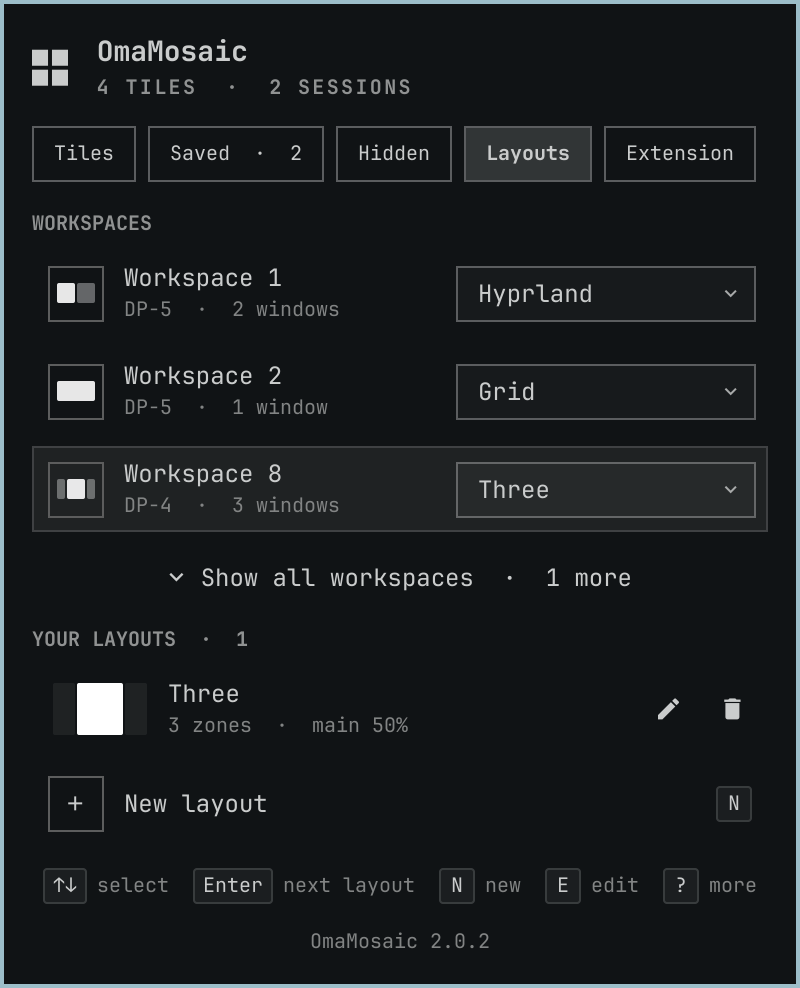
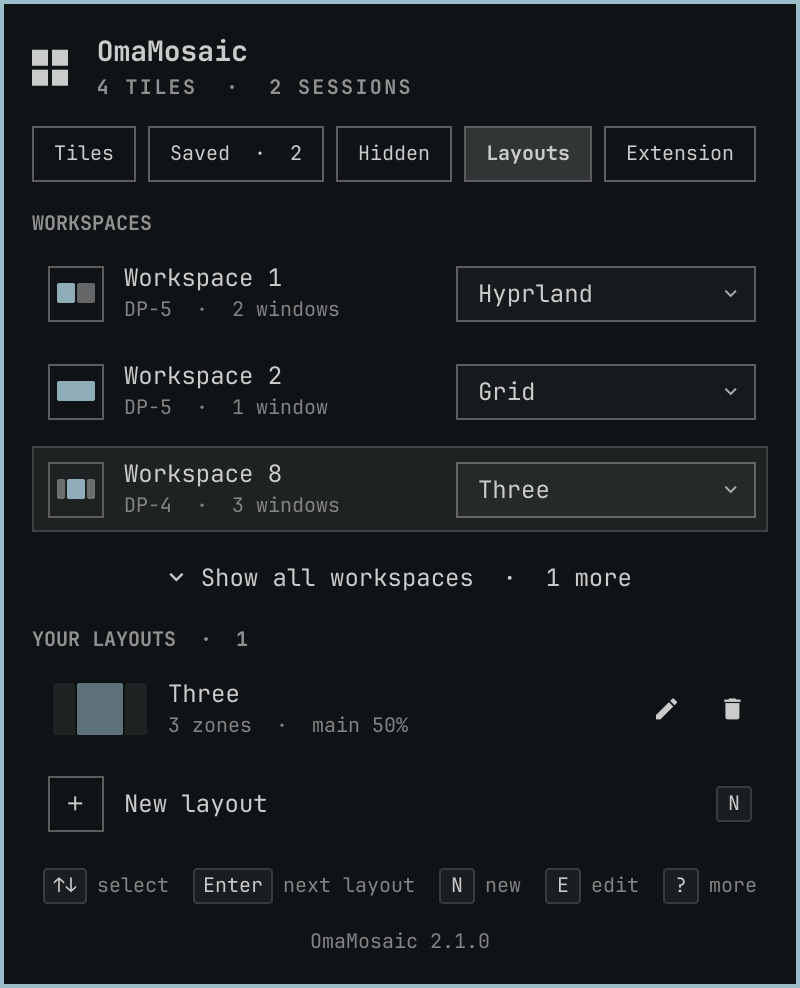
Release 2.1.0
Reloads tiles whose page crashed and recovers more kinds of stopped
streams, on a third default site too, with extension 0.7.0. Keeps tiles
paired with their own tabs, across shell restarts as well, and names
each tile after the site it is really on. The panel captures and the
hero are rendered again to show the new version.

diff --git a/CHANGELOG.md b/CHANGELOG.md
@@ -1,6 +1,6 @@
 # Changelog
 
-## Unreleased
+## 2.1.0 (2026-11-11)
 
 - **Fixed**: a tile paired with the wrong browser tab stays wrong no more.
   The pairing was kept forever once made, even across shell restarts, so
@@ -29,6 +29,9 @@
   drop.
 - Extension 0.7.0 (`background-14.js`): reload it once (B on the
   Extension tab, or its Reload button on the extensions page).
+- **Fixed**: the layout editor and the swap card read theme colours that
+  came back undefined outside the running shell since the Omarchy shell
+  update of 2026-11-05; the offscreen preview works again.
 - **Fixed**: restarting the shell no longer loses which tab each tile is,
   which left tiles with the same title unmatched until focused.
 

diff --git a/README.md b/README.md
@@ -30,8 +30,9 @@ type any address.
   Omarchy's window bindings keep working.
 - **Per-tile audio**: mute, volume, and "only the focused tile plays",
   through a small browser extension.
-- **Dropped streams come back**: a frozen or failed Twitch or Kick stream
-  is reloaded, and goes fullscreen again if it was.
+- **Dropped streams come back**: a frozen, failed or stopped Twitch, Kick
+  or YouTube stream is reloaded, and goes fullscreen again if it was; a
+  tile whose page crashed is reloaded on any site.
 - **Saved sessions** that reopen where they were, by key or at login.
 - **Save a tile as a web app**, with the site's icon.
 - **Scriptable**: `omarchy-shell pym.omamosaic …` and the `omamosaic`
